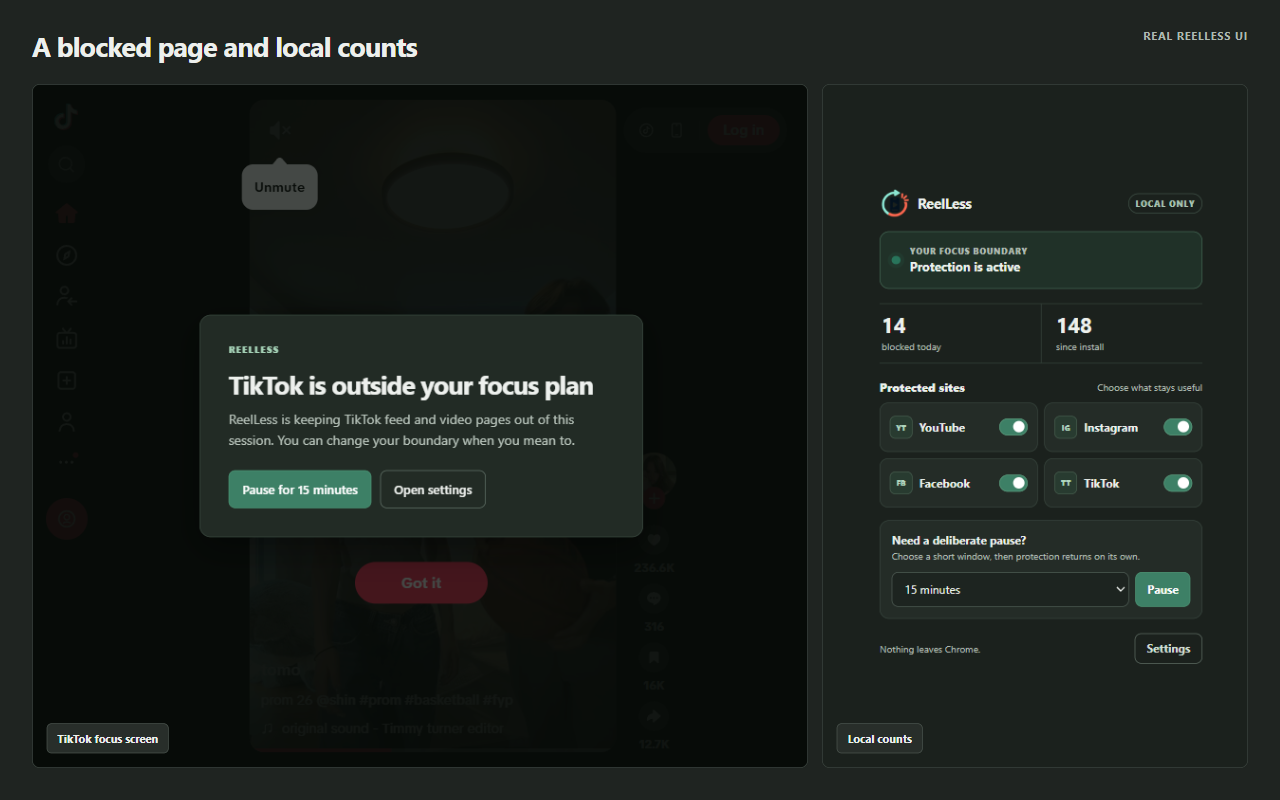
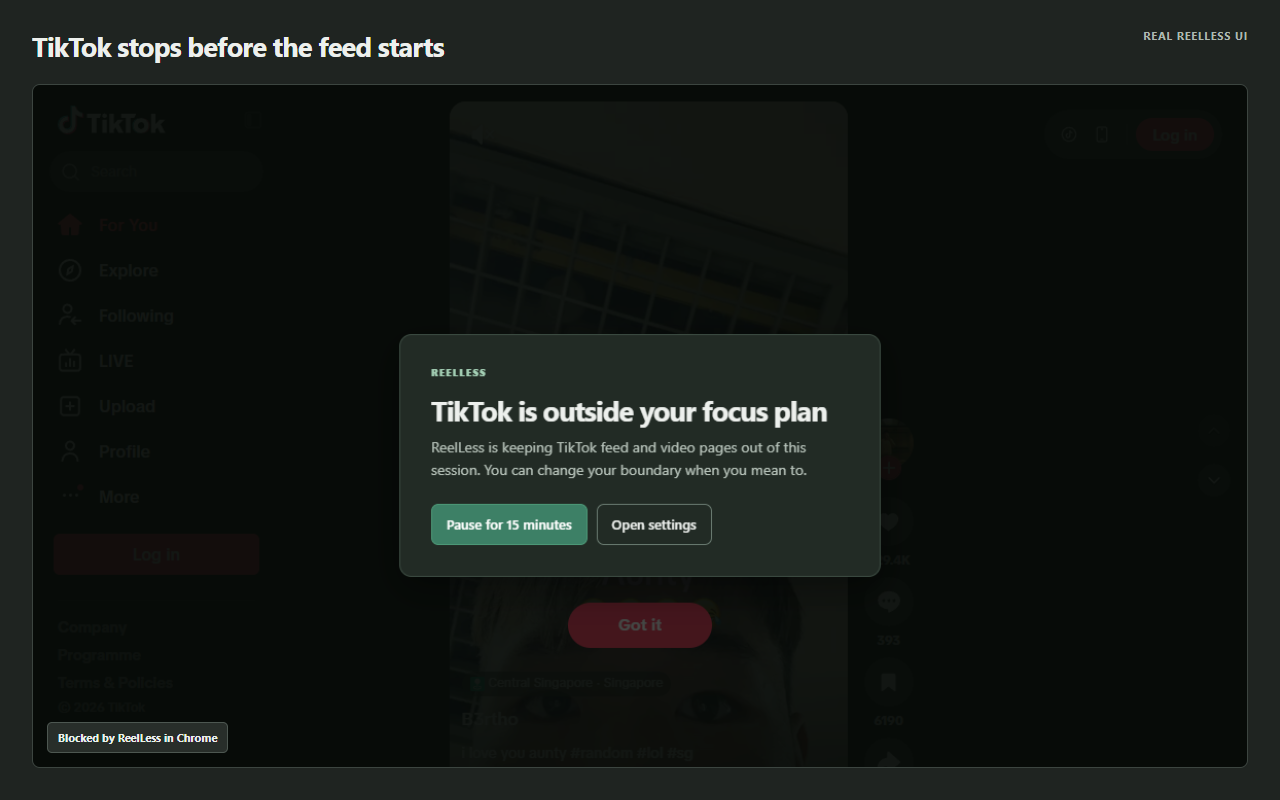
docs: refresh project showcase with live browser captures

diff --git a/README.md b/README.md
@@ -1,93 +1,125 @@
-# ReelLess – Stay Focused Online
+# ReelLess
 
-> **ReelLess – Focus Browser Add-on:** Hides YouTube Shorts, Instagram Reels and TikTok videos, with customizable settings to hide and block specific tabs across 11 sites. 100% offline, private, tested.
+<p align="center">
+  <img src="icons/icon-128.png" width="112" height="112" alt="ReelLess logo">
+</p>
 
-Free, open-source add-on for Chrome + Firefox. No accounts, no ads, no tracking.
+<p align="center"><strong>Keep the useful parts. Lose the endless video.</strong></p>
 
-## Why I built this
+<p align="center">
+  A private, open-source focus extension for Chrome, Edge, and Firefox.<br>
+  Hide Shorts and Reels, block distracting sections, and keep search, messages, profiles, and the pages you actually came for.
+</p>
 
-Short videos are designed to keep you scrolling. I wanted a tool that removes the distraction but keeps the useful parts — messages, search, profiles, learning videos — so students can focus without quitting social media completely.
+<p align="center"><strong>No account · No ads · No analytics · No data leaves your browser</strong></p>
 
-![Popup](store-assets/01-popup.png)
-![YouTube before/after](store-assets/02-youtube-before-after.png)
-![Instagram and Facebook](store-assets/03-instagram-facebook.png)
+![ReelLess popup showing active protection, local counts, and four protected core sites](store-assets/01-popup.png)
 
-## What it does
+## Your feeds, minus the trap
 
-- **Hides distracting videos in-place:** YouTube Shorts, Instagram Reels, TikTok videos disappear from feeds. Pages stay smooth and scrollable — no reloads, no blank gaps, no jumping.
-- **Hide and block specific tabs:** e.g. YouTube Home / Trending / Subscriptions, Instagram Home / Explore, Facebook Home / Groups / Events, TikTok LIVE, X Explore, Reddit Home, LinkedIn Feed and more. You choose, everything else keeps working. Facebook is full tabs only — no per-video blocking.
-- **Stays out of your messages:** Instagram Direct and Messenger threads are never touched.
-- **Focus helpers:** study / work schedules, short pauses, daily count of avoided distractions, calm focus screen instead of autoplay.
-- **Ultimate Lock (optional):** extra self-control mode that locks protection on until you finish a short timed release ritual.
-- **Private by design:** everything runs on your device. Nothing is collected or sent anywhere.
+ReelLess removes or disables short-form entry points before they pull you into the next video. Direct visits to protected pages stop on a calm focus screen instead of autoplaying.
 
-## Where you see it work
+![YouTube search results before and after ReelLess removes the Shorts shelf](store-assets/02-youtube-before-after.png)
 
-- **In feeds:** blocked Shorts / Reels cards are removed or replaced with a small `Reel blocked` placeholder, so you can keep scrolling with no jump.
-- **When you open something blocked:** the page stops in place and shows a calm screen — `This section is outside your focus plan` (YouTube / Instagram / tabs), `TikTok is outside your focus plan`, or `This page is outside your focus plan` (custom sites) — with links back to allowed pages.
-- **How tab hiding works:** Settings → Advanced → pick a site → Selected sections → tick only the tabs you want gone. Example: Facebook → tick Home to hide and block the Home feed, tick Groups to hide and block Groups. Untick to allow again. Nothing else on the site changes.
+The useful parts stay available: ordinary YouTube videos and search, Instagram profiles and Direct, Facebook posts and Messenger, plus the sections you choose to keep on every supported site.
 
-![Settings](store-assets/04-advanced-settings.png)
-![Focus screen](store-assets/05-focus-count.png)
+## More control than a simple on/off blocker
 
-## Built like a real product
+Choose **Short-form only**, **Selected sections**, or **Block everything** for each site. In Selected sections mode, every checkbox is independent: block YouTube Home and Trending while keeping Subscriptions, or hide Instagram Reels, Explore, and Stories while leaving the main feed available.
 
-- Works on 11 sites, 40+ sections, with settings that safely carry over between updates
-- Fast and stable on busy feeds (tested scrolling, no flicker)
-- Full test suite + security and privacy reviews in this repo
-- Store-ready builds for Chrome and Firefox (`npm run build`)
+![ReelLess settings showing independent YouTube and Instagram section controls](store-assets/07-section-controls.png)
 
-## Try it locally
+Blocked Shorts and Reels can be completely **Hidden** or left **Visible, but unable to open**. ReelLess can also quiet page furniture such as recommendations, sidebars, comments, and end-screen suggestions without blocking the underlying page.
 
-1. Open `chrome://extensions`.
-2. Enable **Developer mode**.
-3. Click **Load unpacked** and select this folder.
-4. Pin ReelLess, then open YouTube, Instagram, Facebook or TikTok.
+The change is visible on the live site itself. In this signed-out YouTube test, **Home** and **Shorts** are present before protection. After ReelLess turns on, those protected navigation entries disappear completely while **Subscriptions** remains available.
 
-<details>
-<summary><b>Full feature details (click to expand)</b></summary>
+![Live YouTube navigation before and after ReelLess hides Home and Shorts, with a right-pointing arrow between the states](store-assets/08-youtube-tabs-before-after.png)
 
-- X / Twitter: Block Home feed, Explore, Notifications, Messages, Communities, Grok, plus hide recommendations and sidebar distractions. Profiles, posts and bookmarks stay available.
-- Reddit: Block Home feed, Popular / News / Explore, Chat, Notifications, inbox, plus hide sidebar distractions. Communities, posts, comments and search stay available.
-- More sites: Snapchat Spotlight, Twitch Home / Browse / Clips / Videos / Drops, Pinterest Home / Explore / Search, LinkedIn Feed / Videos / Notifications / Messaging / My Network, Threads Home / Activity. Jobs, search, profiles and messages stay available.
-- YouTube Shorts, Instagram Reels, TikTok videos are hidden in feeds. Opening one shows a calm focus screen instead of playing. Facebook uses full-tab blocks only (Home, Groups, Events, etc.), no per-video blocking.
-- Choice per site: **Hidden** or **Visible, can't be opened**.
-- Instagram Direct and Messenger threads are never modified.
-- Only deliberate attempts increase the local today / all-time count.
-- Schedules, full-site modes, section controls and custom domains live under Advanced.
-- Ultimate Lock (optional): locks protection on. Removal needs a typed phrase, private reflection and timed check-ins. Browser admins can still disable/uninstall the extension.
+## Eleven supported sites
 
-</details>
+Four core sites work immediately after installation. Seven more are opt-in, and the browser asks for access only when you enable one.
 
-## For developers
+![ReelLess settings showing four core sites and seven optional sites](store-assets/06-supported-sites.png)
 
-Install the test dependencies once:
+| Ready after install | Optional access |
+| --- | --- |
+| YouTube | X / Twitter |
+| Instagram | Reddit |
+| Facebook | Snapchat |
+| TikTok | Twitch |
+|  | Pinterest |
+|  | LinkedIn |
+|  | Threads |
+
+Across those sites you can target Shorts, Reels, video feeds, Home, Explore, Trending, Stories, LIVE, Groups, Events, Notifications, and many other attention-heavy sections. You can also add an exact custom domain or path when a built-in checklist does not cover it.
+
+## Hidden does not mean bypassable
+
+Removing a tab is only the first layer. If someone pastes its address, follows an external link, uses a bookmark, or otherwise navigates directly to a protected page, ReelLess stops the page and shows **This section is outside your focus plan**.
+
+The window offers links to other pages that are still allowed under the current settings—such as **Home**, **Subscriptions**, or **History**—and never suggests the section that was blocked. The user can also take a deliberate 15-minute pause or open Settings to change the boundary.
+
+![A directly opened YouTube Short stopped by ReelLess, with buttons for allowed pages, a short pause, and Settings](store-assets/09-youtube-focus-screen.png)
+
+Fully protected feeds stop before playback starts. Here the production ReelLess guard is running in Chrome at TikTok's URL and replaces the page with its focus boundary before feed playback.
+
+![TikTok stopped before its feed starts by the ReelLess focus screen in Chrome](store-assets/05-focus-count.png)
+
+Protection records the deliberate attempt locally. A short pause turns protection back on automatically when it ends.
+
+Other focus tools include:
+
+- Work, study, evening, sleep, and custom schedules
+- Today and all-time blocked-attempt counts stored only in the browser
+- Optional **Ultimate Lock**, with a deliberate timed release flow
+- Dark, light, and system themes
+- Custom page boundaries for sites outside the built-in list
+
+> The README images are generated from a temporary Chrome extension profile. YouTube is captured from the real signed-out site, and TikTok is captured from the real signed-out site when it is reachable. No social account is opened, and the images contain no account names, messages, or personal browsing history.
+
+## Private by design
+
+ReelLess runs locally. It does not send telemetry, create an account, inject remote code, or call an analytics service. Settings and counts stay in browser storage and disappear when the extension or its browser data is removed.
+
+The four core sites are declared at install time. Every optional site and custom page uses browser-managed optional access, requested only when you turn that protection on. See the full [privacy policy](PRIVACY.md) and [security review](SECURITY_REVIEW.md).
+
+## Install it locally
+
+1. Download or clone this repository.
+2. Open `chrome://extensions` in Chrome or Edge.
+3. Enable **Developer mode**, choose **Load unpacked**, and select this folder.
+4. Pin ReelLess and open its Settings page to choose your boundaries.
+
+Firefox users can create the Firefox build with `npm run build:firefox` and load the generated package temporarily from `about:debugging`.
+
+## Tested like a product
+
+The automated suite covers settings migration, URL and section matching, dynamic page changes, feed hiding, focus screens, Direct and Messenger safety, optional permissions, browser packaging, Firefox compatibility, and store-asset dimensions. The browser smoke suite loads the unpacked extension into Chromium and exercises the real popup, Settings page, and guarded sites.
 
 ```powershell
 npm install
-npx playwright-core install chromium
-```
-
-Then run:
-
-```powershell
 npm test
 npm run validate
 npm run smoke
 npm run build
 ```
 
-The smoke suite uses a temporary Chrome for Testing profile because current branded Chrome builds ignore command-line unpacked-extension loading. Manual Chrome installation still uses `chrome://extensions` as described above.
+Generate the privacy-safe README and store captures with:
 
-The verified Web Store package is created at `dist/reels-blocker.zip`, with `manifest.json` at the ZIP root.
+```powershell
+$env:REELLESS_HEADLESS = "1"
+npm run screenshots
+```
 
-## Release
+Current Chrome and Edge releases and desktop Firefox are supported. The four core sites also work on Firefox for Android; optional-site and custom-page access depends on browser UI that is not currently available there. Platform layouts change frequently, so authenticated and signed-out manual checks are still part of every release.
 
-- Store copy: [STORE_LISTING.md](STORE_LISTING.md)
-- Privacy policy: [PRIVACY.md](PRIVACY.md)
-- 90-day launch checklist: [LAUNCH_PLAN.md](LAUNCH_PLAN.md)
-- Public site: `docs/` (ready for GitHub Pages)
+## Project links
 
-Before public release, complete a trademark check for “ReelLess,” manually test authenticated and logged-out platform layouts, create the Chrome Web Store developer account, and upload the verified ZIP with deferred publishing.
+- [Store listing copy](STORE_LISTING.md)
+- [Manual testing guide](MANUAL_TESTING.md)
+- [Contributing](CONTRIBUTING.md)
+- [Security policy](SECURITY.md)
+- [Changelog](CHANGELOG.md)
+- [License](LICENSE)
 
 ReelLess is independent and is not affiliated with YouTube, Instagram, Facebook, TikTok, or their owners. Platform names and trademarks belong to their respective owners.

diff --git a/store-assets/README.md b/store-assets/README.md
@@ -1,17 +1,22 @@
-# ReelLess Store Assets
+# ReelLess Store and README Assets
 
-The listing set is captured from the real v2.3.0 extension, loaded unpacked into a Chrome for Testing profile, against the live sites. Nothing new is mocked up: a frame that needs a signed-in account is skipped with instructions rather than faked, and the previous file is left in place.
+The set is captured from the real v2.3.1 extension, loaded unpacked into a temporary Chrome for Testing profile. Frames that need an account are skipped unless an explicit capture profile is supplied; the generator never signs in or reads a personal browser profile by default.
 
 - `01-popup.png` — the actual popup, scaled to fill the frame, with seeded local-only counters
 - `02-youtube-before-after.png` — live YouTube search results before and after the guard runs, both captured from the same scroll offset so the frames differ only by what ReelLess removed
-- `03-instagram-facebook.png` — Instagram and Facebook with Reels entry points removed. The live capture needs a signed-in profile (see below); the file currently checked in is the earlier fixture-based composite carried forward from v2.2.0, and should be regenerated from a signed-in profile before it is uploaded
 - `04-advanced-settings.png` — the actual Settings page with Advanced open, scrolled to the optional sites
-- `05-focus-count.png` — the focus screen on live TikTok beside the popup's local counts
+- `05-focus-count.png` — legacy filename for the full-width TikTok focus screen, captured from the live signed-out site when reachable or from the privacy-safe TikTok Chrome test surface otherwise
+- `06-supported-sites.png` — the actual Settings DOM compacted with capture-only CSS to show all four core and seven optional sites; used in the public README
+- `07-section-controls.png` — the actual YouTube and Instagram per-section controls with deliberate demo choices stored only in the temporary capture profile; used in the public README
+- `08-youtube-tabs-before-after.png` — a live signed-out YouTube before → after comparison proving that protected Home and Shorts navigation collapses while Subscriptions remains
+- `09-youtube-focus-screen.png` — a direct visit to a live YouTube Short showing the real focus dialog, allowed-page links, pause action, and Settings action
 - `promo-440x280.png` — small promotional tile, rendered from the brand palette and icon
 - `marquee-1400x560.png` — optional Chrome Web Store marquee tile, same palette and message as the product UI
 - `reelless-icon-master.png` — transparent master that `scripts/generate-icons.ps1` renders the release icons from
 
-All five screenshots are 1280×800; `npm run validate` checks those dimensions, plus the 440×280 promo and 1400×560 marquee sizes. `screenshot-1280x800.png` mirrors the popup asset for compatibility with older release notes.
+All eight screenshots are 1280×800; `npm run validate` checks those dimensions, plus the 440×280 promo and 1400×560 marquee sizes. `screenshot-1280x800.png` mirrors the popup asset for compatibility with older release notes.
+
+The images embedded in the public README (`01`, `02`, and `05` through `09`) contain no private account details. Popup counts and section choices are seeded demo values. Both YouTube comparisons and the YouTube focus screen use the real public signed-out site.
 
 Regenerate the set with:
 
@@ -19,4 +24,4 @@ Regenerate the set with:
 npm run screenshots
 ```
 
-The script (`scripts/capture-store-assets.mjs`) launches Chromium from `playwright-core` with a temporary profile. Instagram and Facebook show a login wall to a signed-out browser, so `03-instagram-facebook.png` is only regenerated when `REELLESS_PROFILE` points at a Chrome profile directory that is already signed in to both; otherwise the previous file is left in place and the script says so. `REELLESS_CHROME_PATH` overrides the browser executable and `REELLESS_HEADLESS=1` runs without a window. If TikTok is unreachable, `05-focus-count.png` falls back to a minimal fixture and the script reports it.
+The script (`scripts/capture-store-assets.mjs`) launches Chromium from `playwright-core` with a temporary profile. `REELLESS_CHROME_PATH` overrides the browser executable and `REELLESS_HEADLESS=1` runs without a window. YouTube frames are generated only when the live signed-out site is reachable. If TikTok is unreachable, `05-focus-count.png` uses the polished privacy-safe TikTok test surface and asserts that the production focus screen and actions rendered correctly.
